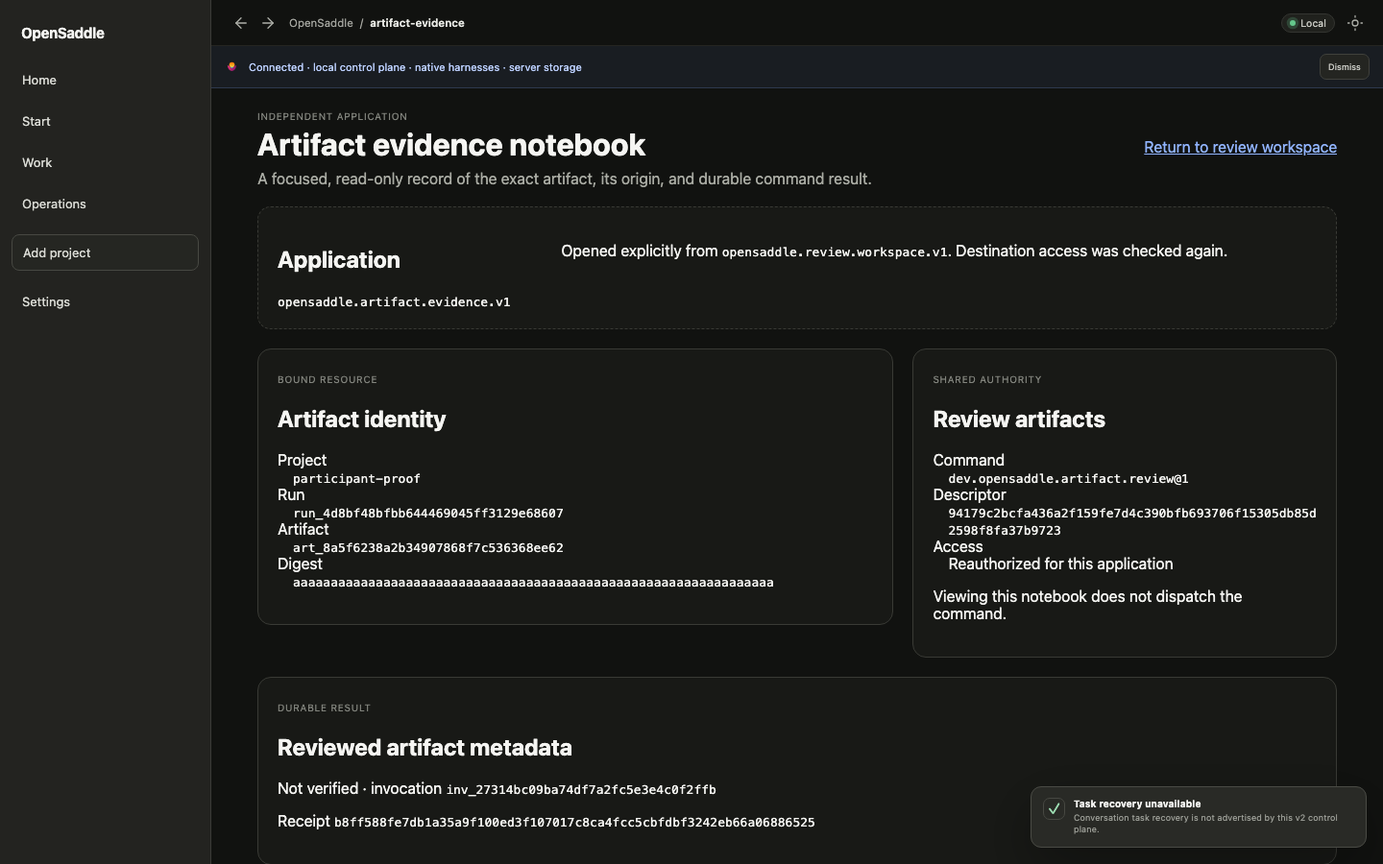
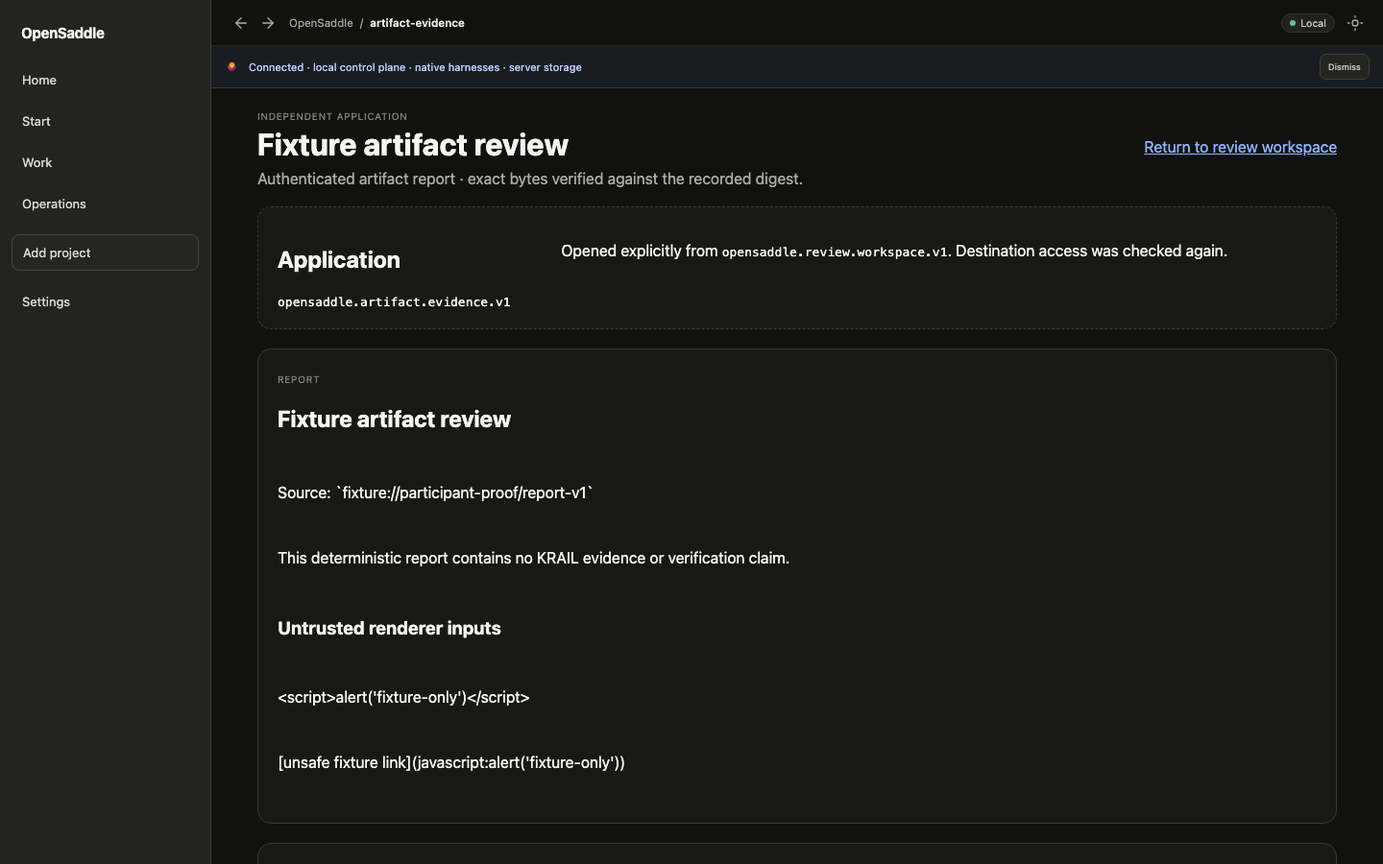
Render verified bounded artifact reports

diff --git a/src/features/shell/ArtifactEvidenceApplication.tsx b/src/features/shell/ArtifactEvidenceApplication.tsx
@@ -1,6 +1,6 @@
 import React,{useEffect,useRef,useState}from'react'
 import{useSearchParams}from'react-router-dom'
-import type{ExactArtifactRef,MalleableShellClient,ShellCommandDescriptor,ShellCommandResult}from'../../services/contracts'
+import type{ArtifactContent,ExactArtifactRef,MalleableShellClient,ShellCommandDescriptor,ShellCommandResult}from'../../services/contracts'
 import{useStore}from'../../data/store'
 import{EmptyState}from'../../ui/EmptyState'
 import{getSurface,registerSurface}from'../../surfaces/registry'
@@ -8,19 +8,26 @@ import{getSurface,registerSurface}from'../../surfaces/registry'
 void React
 export const builtInEvidenceApplication={applicationId:'opensaddle.artifact.evidence.v1'} as const
 type Handoff={projectId:string;runId:string;artifactId:string;digest:string;commandId:string;commandVersion:number;descriptorDigest:string;invocationId:string;origin:string}
-type State={kind:'loading'}|{kind:'error';reason:string}|{kind:'ready';resource:ExactArtifactRef;descriptor:ShellCommandDescriptor;invocation?:ShellCommandResult}
+type State={kind:'loading'}|{kind:'error';reason:string}|{kind:'ready';key:string;client:MalleableShellClient;resource:ExactArtifactRef;descriptor:ShellCommandDescriptor;content:ArtifactContent;invocation?:ShellCommandResult}
 const sameResource=(a:ExactArtifactRef,b:ExactArtifactRef)=>a.project_id===b.project_id&&a.run_id===b.run_id&&a.artifact_id===b.artifact_id&&a.digest===b.digest
+const handoffKey=(h:Handoff)=>[h.projectId,h.runId,h.artifactId,h.digest,h.commandId,h.commandVersion,h.descriptorDigest,h.invocationId].join('\u0000')
+function safeInline(value:string){const parts:Array<React.ReactNode>=[];const pattern=/\[([^\]]{1,200})\]\((https?:\/\/[^\s)]+)\)/g;let cursor=0,match:RegExpExecArray|null;while((match=pattern.exec(value))){parts.push(value.slice(cursor,match.index),<a key={`${match.index}:${match[2]}`} href={match[2]} target="_blank" rel="noreferrer">{match[1]}</a>);cursor=pattern.lastIndex}parts.push(value.slice(cursor));return parts}
+function SafeMarkdown({text}:{text:string}){const lines=text.split(/\r?\n/);let fenced=false;return <div className="artifact-report">{lines.map((line,index)=>{if(line.startsWith('```')){fenced=!fenced;return null}if(fenced)return <pre key={index}>{line}</pre>;const heading=/^(#{1,3})\s+(.+)$/.exec(line);if(heading){const H=`h${heading[1].length+1}` as 'h2'|'h3'|'h4';return <H key={index}>{safeInline(heading[2])}</H>}if(/^[-*]\s+/.test(line))return <p key={index}>• {safeInline(line.slice(2))}</p>;if(/^>\s?/.test(line))return <blockquote key={index}>{safeInline(line.replace(/^>\s?/,''))}</blockquote>;return line?<p key={index}>{safeInline(line)}</p>:<br key={index}/>})}</div>}
 
 export function ArtifactEvidenceSurface({client,handoff}:{client?:MalleableShellClient;handoff:Handoff}){
   const[state,setState]=useState<State>({kind:'loading'});const generation=useRef(0)
-  useEffect(()=>{const current=++generation.current;setState({kind:'loading'});if(!client){setState({kind:'error',reason:'The connected server does not expose the public artifact resource boundary.'});return}const expected:ExactArtifactRef={project_id:handoff.projectId,run_id:handoff.runId,artifact_id:handoff.artifactId,digest:handoff.digest};void Promise.all([client.artifacts(handoff.runId,handoff.projectId),client.commands(handoff.projectId),handoff.invocationId?client.invocation(handoff.invocationId):Promise.resolve(undefined)]).then(([resources,commands,invocation])=>{if(current!==generation.current)return;const resource=resources.find(item=>sameResource(item,expected));const descriptor=commands.find(item=>item.command_id===handoff.commandId&&item.version===handoff.commandVersion&&item.descriptor_digest===handoff.descriptorDigest);if(!resource)throw Error('The exact artifact is missing, changed, or no longer authorized.');if(!descriptor||!descriptor.available.available)throw Error(descriptor?.available.reason??'The originating command descriptor is stale or unavailable.');if(invocation&&(!sameResource(invocation.resource,resource)||invocation.command_id!==descriptor.command_id||invocation.version!==descriptor.version||invocation.descriptor_digest!==descriptor.descriptor_digest))throw Error('The durable invocation no longer matches this exact resource and command authority.');setState({kind:'ready',resource,descriptor,invocation})}).catch(reason=>{if(current===generation.current)setState({kind:'error',reason:reason instanceof Error?reason.message:String(reason)})});return()=>{generation.current++}},[client,handoff.projectId,handoff.runId,handoff.artifactId,handoff.digest,handoff.commandId,handoff.commandVersion,handoff.descriptorDigest,handoff.invocationId])
+  useEffect(()=>{const current=++generation.current;setState({kind:'loading'});if(!client?.content){setState({kind:'error',reason:'Artifact bytes are unavailable from this server.'});return}const expected:ExactArtifactRef={project_id:handoff.projectId,run_id:handoff.runId,artifact_id:handoff.artifactId,digest:handoff.digest};void Promise.all([client.artifacts(handoff.runId,handoff.projectId),client.commands(handoff.projectId),handoff.invocationId?client.invocation(handoff.invocationId):Promise.resolve(undefined)]).then(async([resources,commands,invocation])=>{if(current!==generation.current)return;const resource=resources.find(item=>sameResource(item,expected));const descriptor=commands.find(item=>item.command_id===handoff.commandId&&item.version===handoff.commandVersion&&item.descriptor_digest===handoff.descriptorDigest);if(!resource)throw Error('The exact artifact is missing, changed, or no longer authorized.');if(!descriptor||!descriptor.available.available)throw Error(descriptor?.available.reason??'The originating command descriptor is stale or unavailable.');if(invocation&&(!sameResource(invocation.resource,resource)||invocation.command_id!==descriptor.command_id||invocation.version!==descriptor.version||invocation.descriptor_digest!==descriptor.descriptor_digest))throw Error('The durable invocation no longer matches this exact resource and command authority.');const content=await client.content!(resource);if(current!==generation.current)return;if(content.digest!==resource.digest.replace(/^sha256:/,'').toLowerCase())throw Error('artifact_content_integrity_denied');setState({kind:'ready',key:handoffKey(handoff),client,resource,descriptor,content,invocation})}).catch(reason=>{if(current===generation.current)setState({kind:'error',reason:reason instanceof Error?reason.message:String(reason)})});return()=>{generation.current++}},[client,handoff.projectId,handoff.runId,handoff.artifactId,handoff.digest,handoff.commandId,handoff.commandVersion,handoff.descriptorDigest,handoff.invocationId])
+  if(state.kind==='ready'&&(state.client!==client||state.key!==handoffKey(handoff)))return <main className="content-page cc-page" aria-busy="true"><p role="status">Reauthorizing the exact artifact at the destination…</p></main>
   if(state.kind==='loading')return <main className="content-page cc-page" aria-busy="true"><p role="status">Reauthorizing the exact artifact at the destination…</p></main>
   if(state.kind==='error')return <main className="content-page cc-page"><EmptyState role="alert" title="Evidence application unavailable" description={state.reason}/></main>
   const back=new URLSearchParams({project:handoff.projectId,run:handoff.runId,artifact:handoff.artifactId,digest:handoff.digest,...(state.invocation?{invocation:state.invocation.invocation_id}:{})})
-  return <main className="content-page cc-page"><header className="cc-header"><div><span className="eyebrow">Independent application</span><h1>Artifact evidence notebook</h1><p>A focused, read-only record of the exact artifact, its origin, and durable command result.</p></div><a className="cc-text-link" href={`review?${back}`}>Return to review workspace</a></header>
+  const summary=state.content.text.split(/\r?\n/).map(line=>line.replace(/^#+\s*/, '').trim()).find(Boolean)??'Artifact report'
+  return <main className="content-page cc-page"><header className="cc-header"><div><span className="eyebrow">Independent application</span><h1>{summary}</h1><p>Authenticated artifact report · exact bytes verified against the recorded digest.</p></div><a className="cc-text-link" href={`review?${back}`}>Return to review workspace</a></header>
     <section className="cc-unavailable" aria-label="Application provenance"><div><h2>Application</h2><code>{builtInEvidenceApplication.applicationId}</code></div><p>Opened explicitly from <code>{handoff.origin}</code>. Destination access was checked again.</p></section>
-    <div className="cc-grid"><section className="cc-panel"><span className="eyebrow">Bound resource</span><h2>Artifact identity</h2><dl><dt>Project</dt><dd><code>{state.resource.project_id}</code></dd><dt>Run</dt><dd><code>{state.resource.run_id}</code></dd><dt>Artifact</dt><dd><code>{state.resource.artifact_id}</code></dd><dt>Digest</dt><dd><code>{state.resource.digest}</code></dd></dl></section><section className="cc-panel"><span className="eyebrow">Shared authority</span><h2>{state.descriptor.title}</h2><dl><dt>Command</dt><dd><code>{state.descriptor.command_id}@{state.descriptor.version}</code></dd><dt>Descriptor</dt><dd><code>{state.descriptor.descriptor_digest}</code></dd><dt>Access</dt><dd>Reauthorized for this application</dd></dl><p>Viewing this notebook does not dispatch the command.</p></section></div>
-    {state.invocation?<section className="cc-panel"><span className="eyebrow">Durable result</span><h2>{state.invocation.result.summary??'Recorded command result'}</h2><p>{state.invocation.result.verified?'Verified':'Not verified'} · invocation <code>{state.invocation.invocation_id}</code></p><p>Receipt <code>{state.invocation.receipt.resource_digest}</code></p></section>:<section className="cc-unavailable" role="status"><div><h2>No matching invocation</h2></div><p>The artifact is authorized, but no durable invocation was supplied. Opening this application did not run one.</p></section>}
+    <section className="cc-panel"><span className="eyebrow">Report</span><SafeMarkdown text={state.content.text}/></section>
+    <section className="cc-panel"><span className="eyebrow">Evidence</span><h2>Source and freshness</h2><p>Read from the authenticated Core artifact endpoint for this exact Run. Integrity verified now against the recorded SHA-256 digest.</p>{state.resource.created_at&&<p>Artifact recorded <time dateTime={state.resource.created_at}>{new Date(state.resource.created_at).toLocaleString()}</time>.</p>}<p>{state.content.sizeBytes.toLocaleString()} bytes · {state.content.mediaType}</p></section>
+    {state.invocation?<section className="cc-panel"><span className="eyebrow">Durable result</span><h2>{state.invocation.result.summary??'Recorded command result'}</h2><p>{state.invocation.result.verified?'Verified':'Not verified'} · invocation <code>{state.invocation.invocation_id}</code></p></section>:<section className="cc-unavailable" role="status"><div><h2>No matching invocation</h2></div><p>The artifact is authorized, but no durable invocation was supplied. Opening this application did not run one.</p></section>}
+    <details className="cc-panel"><summary>Technical inspector</summary><dl><dt>Project</dt><dd><code>{state.resource.project_id}</code></dd><dt>Run</dt><dd><code>{state.resource.run_id}</code></dd><dt>Artifact</dt><dd><code>{state.resource.artifact_id}</code></dd><dt>Digest</dt><dd><code>{state.resource.digest}</code></dd><dt>Command</dt><dd><code>{state.descriptor.command_id}@{state.descriptor.version}</code></dd><dt>Descriptor</dt><dd><code>{state.descriptor.descriptor_digest}</code></dd>{state.invocation&&<><dt>Invocation</dt><dd><code>{state.invocation.invocation_id}</code></dd><dt>Receipt</dt><dd><code>{state.invocation.receipt.resource_digest}</code></dd></>}</dl><p>Viewing this notebook does not dispatch the command.</p></details>
   </main>
 }
 

diff --git a/src/features/shell/ArtifactEvidenceApplication.test.tsx b/src/features/shell/ArtifactEvidenceApplication.test.tsx
@@ -11,13 +11,15 @@ const ref:ExactArtifactRef={project_id:'P1',run_id:'R1',artifact_id:'A1',digest:
 const command:ShellCommandDescriptor={command_id:'dev.opensaddle.artifact.review',version:2,descriptor_digest:'descriptor-2',title:'Review artifacts',description:'Review',effect:'read',required_actions:['artifacts:read'],available:{available:true},input_schema:{},output_schema:{}}
 const result:ShellCommandResult={invocation_id:'inv-1',project_id:'P1',command_id:command.command_id,version:2,descriptor_digest:command.descriptor_digest,invoked_by:'user',created_at:'now',resource:ref,input:{},status:'completed',result:{summary:'Exact review',verified:true},receipt:{effect:'read',resource_digest:ref.digest,verified:true}}
 const handoff={projectId:'P1',runId:'R1',artifactId:'A1',digest:'digest-1',commandId:command.command_id,commandVersion:2,descriptorDigest:command.descriptor_digest,invocationId:'inv-1',origin:'opensaddle.review.workspace.v1'}
-function api(overrides:Partial<MalleableShellClient>={}):MalleableShellClient{return{artifacts:async()=>[ref],commands:async()=>[command],invocation:async()=>result,invocations:async()=>[],invoke:async()=>{throw Error('view must not invoke')},connectors:async()=>[],invokeConnector:async()=>{throw Error('unused')},environment:async()=>{throw Error('unused')},preview:async()=>{throw Error('unused')},apply:async()=>{throw Error('unused')},revert:async()=>{throw Error('unused')},...overrides}}
+function api(overrides:Partial<MalleableShellClient>={}):MalleableShellClient{return{artifacts:async()=>[ref],commands:async()=>[command],content:async()=>({text:'# Verified report\nSource: [safe](https://example.com)\n<script>alert(1)</script>\n[unsafe](javascript:alert(1))',mediaType:'text/markdown',sizeBytes:100,digest:'digest-1'}),invocation:async()=>result,invocations:async()=>[],invoke:async()=>{throw Error('view must not invoke')},connectors:async()=>[],invokeConnector:async()=>{throw Error('unused')},environment:async()=>{throw Error('unused')},preview:async()=>{throw Error('unused')},apply:async()=>{throw Error('unused')},revert:async()=>{throw Error('unused')},...overrides}}
 async function mount(client:MalleableShellClient,props=handoff){let renderer!:ReturnType<typeof create>;await act(async()=>{renderer=create(<MemoryRouter><ArtifactEvidenceSurface client={client} handoff={props}/></MemoryRouter>)});return renderer}
 
-test('destination independently reauthorizes exact resource, descriptor, and durable invocation without rerunning',async()=>{let invokes=0;let reads:string[]=[];const renderer=await mount(api({artifacts:async(run,project)=>{reads.push(`${project}/${run}`);return[ref]},commands:async project=>{reads.push(project);return[command]},invocation:async id=>{reads.push(id);return result},invoke:async()=>{invokes++;return result}}));const markup=JSON.stringify(renderer.toJSON());assert.deepEqual(reads,['P1/R1','P1','inv-1']);assert.equal(invokes,0);assert.match(markup,/opensaddle\.artifact\.evidence\.v1.*opensaddle\.review\.workspace\.v1.*A1.*digest-1.*descriptor-2.*inv-1/s);assert.match(markup,/Return to review workspace/)} )
+test('destination independently reauthorizes exact resource, descriptor, and durable invocation without rerunning',async()=>{let invokes=0;let reads:string[]=[];const renderer=await mount(api({artifacts:async(run,project)=>{reads.push(`${project}/${run}`);return[ref]},commands:async project=>{reads.push(project);return[command]},invocation:async id=>{reads.push(id);return result},invoke:async()=>{invokes++;return result}}));const markup=JSON.stringify(renderer.toJSON());assert.deepEqual(reads,['P1/R1','P1','inv-1']);assert.equal(invokes,0);for(const value of['Verified report','safe','script','unsafe','opensaddle.artifact.evidence.v1','opensaddle.review.workspace.v1','A1','digest-1','descriptor-2','inv-1'])assert.ok(markup.includes(value));assert.equal(renderer.root.findAllByType('script').length,0);assert.deepEqual(renderer.root.findAllByType('a').filter(node=>node.props.target==='_blank').map(node=>node.props.href),['https://example.com']);assert.match(markup,/Return to review workspace/)} )
 
 test('revoked destination clears protected evidence during a client transition',async()=>{let reject!:(reason:Error)=>void;const denied=api({artifacts:async()=>new Promise((_,r)=>{reject=r})});const renderer=await mount(api());assert.match(JSON.stringify(renderer.toJSON()),/A1.*digest-1/s);await act(async()=>{renderer.update(<MemoryRouter><ArtifactEvidenceSurface client={denied} handoff={handoff}/></MemoryRouter>);await Promise.resolve()});assert.doesNotMatch(JSON.stringify(renderer.toJSON()),/A1|digest-1|inv-1/);await act(async()=>{reject(Error('access revoked'));await Promise.resolve()});const markup=JSON.stringify(renderer.toJSON());assert.match(markup,/Evidence application unavailable.*access revoked/s);assert.doesNotMatch(markup,/Exact review/)})
 
 test('changed artifact or command version fails closed at destination',async()=>{const changed={...ref,digest:'digest-2'};const staleCommand={...command,version:3,descriptor_digest:'descriptor-3'};for(const client of[api({artifacts:async()=>[changed]}),api({commands:async()=>[staleCommand]})]){const renderer=await mount(client);const markup=JSON.stringify(renderer.toJSON());assert.match(markup,/Evidence application unavailable/);assert.doesNotMatch(markup,/Exact review|Artifact identity/)}})
+
+test('bytes unavailable and integrity denial render explicit empty states',async()=>{for(const reason of['artifact_bytes_unavailable','artifact_content_integrity_denied']){const renderer=await mount(api({content:async()=>{throw Error(reason)}}));const markup=JSON.stringify(renderer.toJSON());assert.match(markup,new RegExp(reason));assert.doesNotMatch(markup,/Verified report|Exact review/)}})
 
 test('late response from the origin route cannot publish into a new handoff',async()=>{let resolve!:(value:ExactArtifactRef[])=>void;const slow=api({artifacts:async()=>new Promise(r=>{resolve=r})});const renderer=await mount(slow);const next={...handoff,runId:'R2',artifactId:'A2',digest:'digest-2',invocationId:''};await act(async()=>{renderer.update(<MemoryRouter><ArtifactEvidenceSurface client={api({artifacts:async()=>[]})} handoff={next}/></MemoryRouter>);await Promise.resolve()});await act(async()=>{resolve([ref]);await Promise.resolve()});const markup=JSON.stringify(renderer.toJSON());assert.match(markup,/Evidence application unavailable/);assert.doesNotMatch(markup,/A1|digest-1|inv-1/)})

diff --git a/src/services/remoteMalleableShell.ts b/src/services/remoteMalleableShell.ts
@@ -5,7 +5,8 @@ export class RemoteMalleableShellClient implements MalleableShellClient {
   constructor(baseUrl: string, user: () => string, token?: string) { this.baseUrl = baseUrl.replace(/\/$/, ''); this.user = user; this.token = token }
   private async request<T>(path: string, init?: RequestInit): Promise<T> { const response = await fetch(`${this.baseUrl}${path}`, { ...init, headers: { 'Content-Type': 'application/json', 'X-OpenSaddle-User': this.user(), ...(this.token ? { Authorization: `Bearer ${this.token}` } : {}), ...init?.headers } }); if (!response.ok) { const body = await response.json().catch(() => null) as { detail?: unknown } | null; const detail = typeof body?.detail === 'string' ? body.detail : body?.detail ? JSON.stringify(body.detail) : undefined; throw new Error(detail ?? `Shell API failed (${response.status})`) } return response.json() as Promise<T> }
   async commands(projectId?: string) { return (await this.request<{ commands: ShellCommandDescriptor[] }>(projectId ? `/api/v2/projects/${encodeURIComponent(projectId)}/commands` : '/api/v2/commands')).commands }
-  async artifacts(runId: string, projectId: string) { const body = await this.request<{ artifacts: Array<{ artifact_id: string; run_id: string; content_digest: string }> }>(`/api/v2/runs/${encodeURIComponent(runId)}/artifacts`); return body.artifacts.map((a) => ({ project_id: projectId, run_id: a.run_id, artifact_id: a.artifact_id, digest: a.content_digest })) }
+  async artifacts(runId: string, projectId: string) { const body = await this.request<{ artifacts: Array<{ artifact_id: string; run_id: string; content_digest: string;artifact_type?:string;size_bytes?:number;created_at?:string;redaction_class?:string }> }>(`/api/v2/runs/${encodeURIComponent(runId)}/artifacts`); return body.artifacts.map((a) => ({ project_id: projectId, run_id: a.run_id, artifact_id: a.artifact_id, digest: a.content_digest,...(a.artifact_type?{artifact_type:a.artifact_type}:{}),...(typeof a.size_bytes==='number'?{size_bytes:a.size_bytes}:{}),...(a.created_at?{created_at:a.created_at}:{}),...(a.redaction_class?{redaction_class:a.redaction_class}:{}) })) }
+  async content(resource:ExactArtifactRef){const response=await fetch(`${this.baseUrl}/api/v2/runs/${encodeURIComponent(resource.run_id)}/artifacts/${encodeURIComponent(resource.artifact_id)}/content`,{headers:{'X-OpenSaddle-User':this.user(),...(this.token?{Authorization:`Bearer ${this.token}`}:{})}});if(!response.ok){const body=await response.json().catch(()=>null)as{detail?:unknown}|null;const detail=typeof body?.detail==='string'?body.detail:typeof body?.detail==='object'&&body.detail&&'code'in body.detail?String((body.detail as{code:unknown}).code):`Artifact content failed (${response.status})`;throw Error(detail)}const header=response.headers.get('Content-Length');const declared=header===null?undefined:Number(header);if(declared!==undefined&&(!Number.isFinite(declared)||declared<0||declared>262144))throw Error('artifact_content_too_large');if(!response.body)throw Error('artifact_bytes_unavailable');const reader=response.body.getReader(),chunks:Uint8Array[]=[];let size=0;for(;;){const{done,value}=await reader.read();if(done)break;if(value){size+=value.byteLength;if(size>262144){await reader.cancel('artifact_content_too_large');throw Error('artifact_content_too_large')}chunks.push(value)}}const bytes=new Uint8Array(size);let offset=0;for(const chunk of chunks){bytes.set(chunk,offset);offset+=chunk.byteLength}const digest=[...new Uint8Array(await crypto.subtle.digest('SHA-256',bytes))].map(value=>value.toString(16).padStart(2,'0')).join('');const expected=resource.digest.replace(/^sha256:/,'').toLowerCase();if(digest!==expected)throw Error('artifact_content_integrity_denied');let text:string;try{text=new TextDecoder('utf-8',{fatal:true}).decode(bytes)}catch{throw Error('artifact_content_not_utf8')}return{text,mediaType:response.headers.get('Content-Type')??'application/octet-stream',sizeBytes:bytes.byteLength,digest}}
   invoke(descriptor: ShellCommandDescriptor, resource: ExactArtifactRef, input: Record<string, unknown> = {}) { return this.request<ShellCommandResult>(`/api/v2/commands/${encodeURIComponent(descriptor.command_id)}/invocations`, { method: 'POST', body: JSON.stringify({ resource, input, expected_version: descriptor.version, expected_descriptor_digest: descriptor.descriptor_digest }) }) }
   async invocations(projectId: string) { return (await this.request<{ items: ShellCommandResult[] }>(`/api/v2/projects/${encodeURIComponent(projectId)}/command-invocations?limit=50`)).items }
   invocation(invocationId: string) { return this.request<ShellCommandResult>(`/api/v2/command-invocations/${encodeURIComponent(invocationId)}`) }

diff --git a/src/services/contracts.ts b/src/services/contracts.ts
@@ -299,7 +299,8 @@ export interface Participant { participantId: string; projectId: string; source:
 export interface ParticipantMessage { messageId: string; participantId: string; projectId: string; status: string; runId: string; invocationId?: string; resource: ExactArtifactRef; input: Record<string, unknown> }
 export interface ParticipantClient { create(projectId: string, input: { source: string; title: string; commandId: string }): Promise<Participant>; get(id: string): Promise<Participant>; lifecycle(id: string, revision: number, lifecycle: Participant['lifecycle']): Promise<Participant>; send(id: string, revision: number, resource: ExactArtifactRef, input: Record<string, unknown>, idempotencyKey: string): Promise<ParticipantMessage>; message(id: string): Promise<ParticipantMessage>; messages(id: string): Promise<ParticipantMessage[]> }
 
-export interface ExactArtifactRef { project_id: string; run_id: string; artifact_id: string; digest: string }
+export interface ExactArtifactRef { project_id: string; run_id: string; artifact_id: string; digest: string; artifact_type?:string;size_bytes?:number;created_at?:string;redaction_class?:string }
+export interface ArtifactContent { text:string;mediaType:string;sizeBytes:number;digest:string }
 export interface ShellCommandDescriptor { command_id: string; version: number; descriptor_digest: string; title: string; description: string; effect: 'read' | 'write' | 'execute'; required_actions: string[]; available: { available: boolean; reason?: string }; input_schema: Record<string, unknown>; output_schema: Record<string, unknown>; package_ref?: { package_id: string; version: string; manifest_digest: string }; contribution_id?: string; handler_id?: string; handler_version?: number }
 export interface ShellCommandResult { invocation_id: string; project_id: string; command_id: string; version: number; descriptor_digest: string; invoked_by: string; created_at: string; resource: ExactArtifactRef; input: Record<string, unknown>; status: string; result: { summary?: string; artifacts?: Array<Record<string, unknown>>; verified?: boolean }; receipt: { effect: string; resource_digest: string; verified: boolean } }
 export interface RunConnectorCapability { connector: string; protocol_version: string; status: { state: 'available' | 'offline'; reason: string | null }; actions: Array<{ action: string; title: string; description: string; effect: 'read'; input: { required: string[]; properties?: Record<string, unknown> }; result: { type: 'object'; additional_properties: true } }> }
@@ -308,6 +309,7 @@ export interface EnvironmentRevision { schema_version: string; project_id: strin
 export interface EnvironmentPreview { schema_version: string; project_id: string; base_revision: number; base_definition_digest: string; proposed_definition_digest: string; diff: Record<'commands' | 'bindings' | 'services', { added: unknown[]; removed: unknown[] }>; requirements: string[]; activatable: boolean; observed_service_health: { available: false; reason: string } }
 export interface MalleableShellClient {
   commands(projectId?: string): Promise<ShellCommandDescriptor[]>; artifacts(runId: string, projectId: string): Promise<ExactArtifactRef[]>; invoke(descriptor: ShellCommandDescriptor, resource: ExactArtifactRef, input?: Record<string, unknown>): Promise<ShellCommandResult>; invocations(projectId: string): Promise<ShellCommandResult[]>; invocation(invocationId: string): Promise<ShellCommandResult>
+  content?(resource:ExactArtifactRef):Promise<ArtifactContent>
   connectors(runId: string): Promise<RunConnectorCapability[]>; invokeConnector(runId: string, connector: string, action: string, args: Record<string, unknown>): Promise<ConnectorInvocationResult>; environment(projectId: string): Promise<EnvironmentRevision>; preview(projectId: string, expectedRevision: number, definition: EnvironmentRevision['definition'], reason: string, baseDefinitionDigest: string): Promise<EnvironmentPreview>; apply(projectId: string, expectedRevision: number, definition: EnvironmentRevision['definition'], reason: string, baseDefinitionDigest: string): Promise<EnvironmentRevision>; revert(projectId: string, expectedRevision: number, targetRevision: number, reason: string): Promise<EnvironmentRevision>
 }
 

diff --git a/src/services/remoteMalleableShell.test.ts b/src/services/remoteMalleableShell.test.ts
@@ -1,5 +1,6 @@
 import assert from 'node:assert/strict'
 import test from 'node:test'
+import{createHash}from'node:crypto'
 import { RemoteMalleableShellClient } from './remoteMalleableShell'
 
 const reviewDescriptor = { command_id: 'dev.opensaddle.artifact.review', version: 2, descriptor_digest: 'd'.repeat(64), title: 'Review artifact', description: '', effect: 'read' as const, required_actions: ['artifacts:read'], available: { available: true }, input_schema: {}, output_schema: {} }
@@ -27,6 +28,12 @@ test('uses exact server artifact identities and the durable invocation endpoints
     assert.match(requests[3]!.url, /command-invocations\/invocation-1$/)
   } finally { globalThis.fetch = originalFetch }
 })
+
+test('reads bounded exact artifact bytes and verifies their SHA-256 digest',async()=>{const original=globalThis.fetch;const bytes=new TextEncoder().encode('# Report\nCited source.');const digest=createHash('sha256').update(bytes).digest('hex');let request!:Request;globalThis.fetch=async(input,init)=>{request=new Request(input,init);return new Response(bytes,{headers:{'Content-Type':'application/octet-stream','Content-Length':String(bytes.length)}})};try{const resource={project_id:'P1',run_id:'R1',artifact_id:'A1',digest};const content=await new RemoteMalleableShellClient('https://core.example',()=> 'member','token').content(resource);assert.equal(request.url,'https://core.example/api/v2/runs/R1/artifacts/A1/content');assert.equal(request.headers.get('Authorization'),'Bearer token');assert.deepEqual(content,{text:'# Report\nCited source.',mediaType:'application/octet-stream',sizeBytes:bytes.length,digest})}finally{globalThis.fetch=original}})
+
+test('artifact content rejects corruption, unavailable bytes, and oversized bodies',async()=>{const original=globalThis.fetch;const client=new RemoteMalleableShellClient('https://core.example',()=> 'member');const resource={project_id:'P1',run_id:'R1',artifact_id:'A1',digest:'0'.repeat(64)};try{globalThis.fetch=async()=>new Response('changed');await assert.rejects(client.content(resource),/artifact_content_integrity_denied/);globalThis.fetch=async()=>Response.json({detail:{code:'artifact_bytes_unavailable'}},{status:409});await assert.rejects(client.content(resource),/artifact_bytes_unavailable/);globalThis.fetch=async()=>new Response('small',{headers:{'Content-Length':'262145'}});await assert.rejects(client.content(resource),/artifact_content_too_large/)}finally{globalThis.fetch=original}})
+
+test('chunked artifact content cancels before buffering beyond the bound',async()=>{const original=globalThis.fetch;let cancelled=false,pulls=0;const stream=new ReadableStream<Uint8Array>({pull(controller){pulls++;controller.enqueue(new Uint8Array(140000));if(pulls===3)controller.close()},cancel(){cancelled=true}},{highWaterMark:0});globalThis.fetch=async()=>new Response(stream);try{await assert.rejects(new RemoteMalleableShellClient('https://core.example',()=> 'member').content({project_id:'P1',run_id:'R1',artifact_id:'A1',digest:'0'.repeat(64)}),/artifact_content_too_large/);assert.equal(cancelled,true);assert.equal(pulls,2)}finally{globalThis.fetch=original}})
 
 test('discovers only the run-scoped connector capabilities returned by Core', async () => {
   const originalFetch = globalThis.fetch

diff --git a/docs/agents/planner-interface-status.md b/docs/agents/planner-interface-status.md
@@ -293,3 +293,10 @@ Validation: standard `npm test` passes 311 workspace tests and 36 feature tests;
 - The evidence destination independently rereads the authorized artifact list, current Project command descriptors, and durable invocation. Missing/revoked resources, changed digests, stale descriptors, substituted invocation identity, route changes, and client changes fail closed without retained protected content.
 - Returning to Review preserves the exact artifact selection and durable invocation. Live Core8903 network observation recorded zero POST requests across Review → Evidence → Review, proving view changes did not dispatch or rerun the command.
 - Browser proof used the real completed fixture artifact and invocation. Desktop and 390px destination views showed the second application identity, origin, exact resource, descriptor, receipt, and invocation; the narrow view measured `scrollWidth === innerWidth` and retained compact navigation. Evidence: `docs/agents/evidence/cross-app-review-origin-core8903-desktop-2026-09-07.png`, `docs/agents/evidence/cross-app-evidence-destination-core8903-desktop-2026-09-07.png`, `docs/agents/evidence/cross-app-evidence-destination-core8903-mobile-2026-09-07.png`.
+
+### 2026-09-07 — authenticated artifact report bytes
+
+- The evidence application now reads the exact artifact content endpoint after resource and command reauthorization, incrementally caps responses at 256 KiB, verifies SHA-256 before decoding, requires valid UTF-8, and distinguishes unavailable bytes, oversized content, and integrity denial without retaining a prior report.
+- Untrusted report text uses an inert React renderer with no HTML injection. The live fixture's literal `<script>` probe remained visible text and its `javascript:` Markdown link remained inert; DOM inspection found zero script elements and zero unsafe anchors.
+- The report leads with its title and bounded body, followed by authenticated source/freshness and durable result cards. Exact resource, descriptor, invocation, and receipt IDs moved into a closed technical inspector.
+- Core8903 v7 returned 279 real immutable bytes whose digest matched the artifact record. The rendered source `fixture://participant-proof/report-v1` and explicit no-KRAIL/no-verification statement remained intact. A separate metadata-only artifact produced `artifact_bytes_unavailable` with no prior report content. The existing desktop/mobile evidence paths were refreshed with this real-byte journey.
